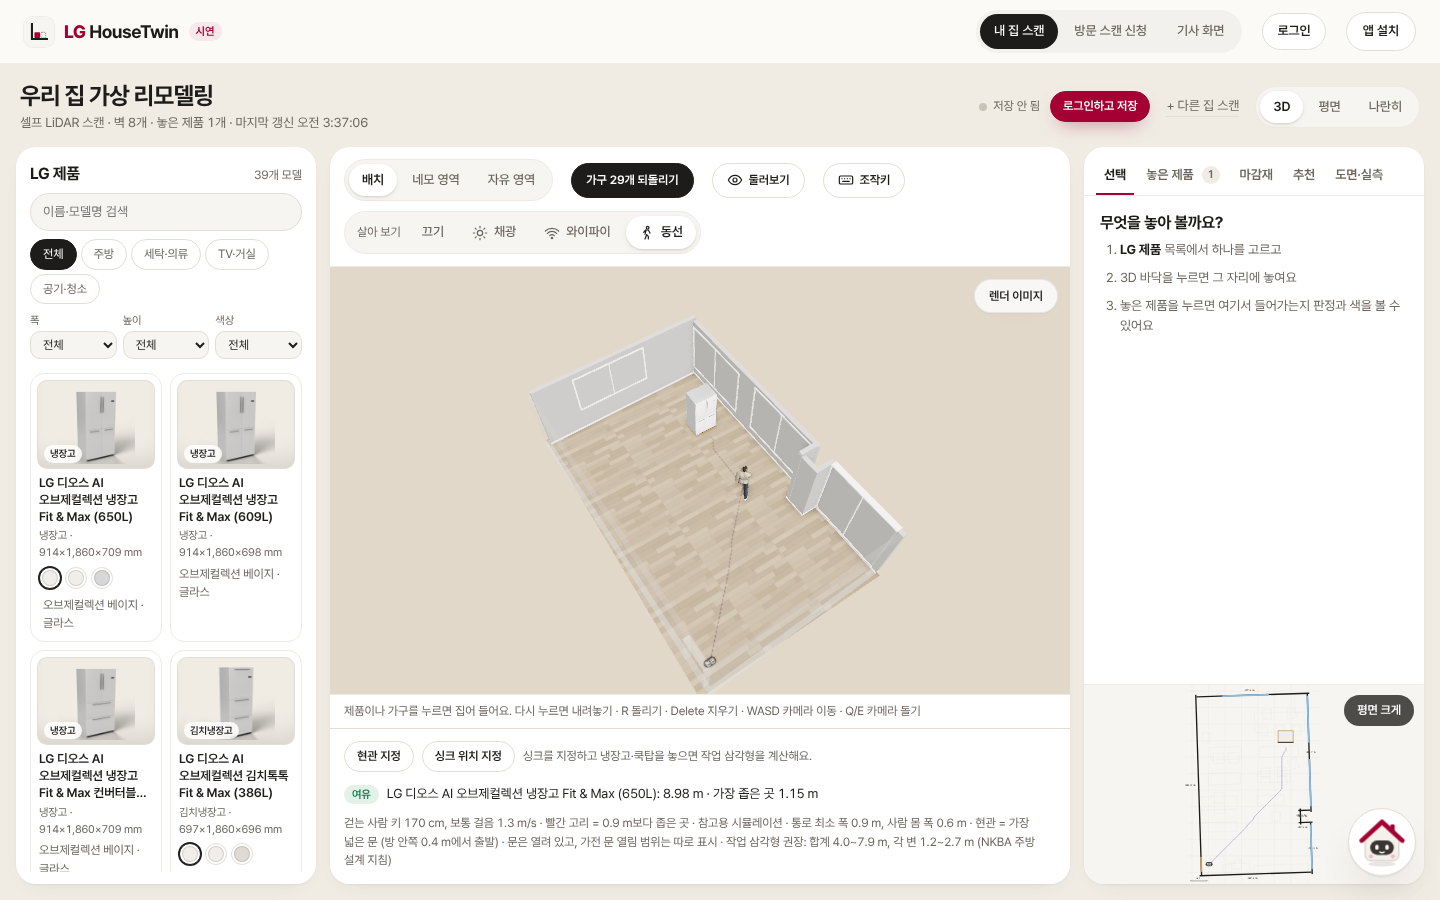
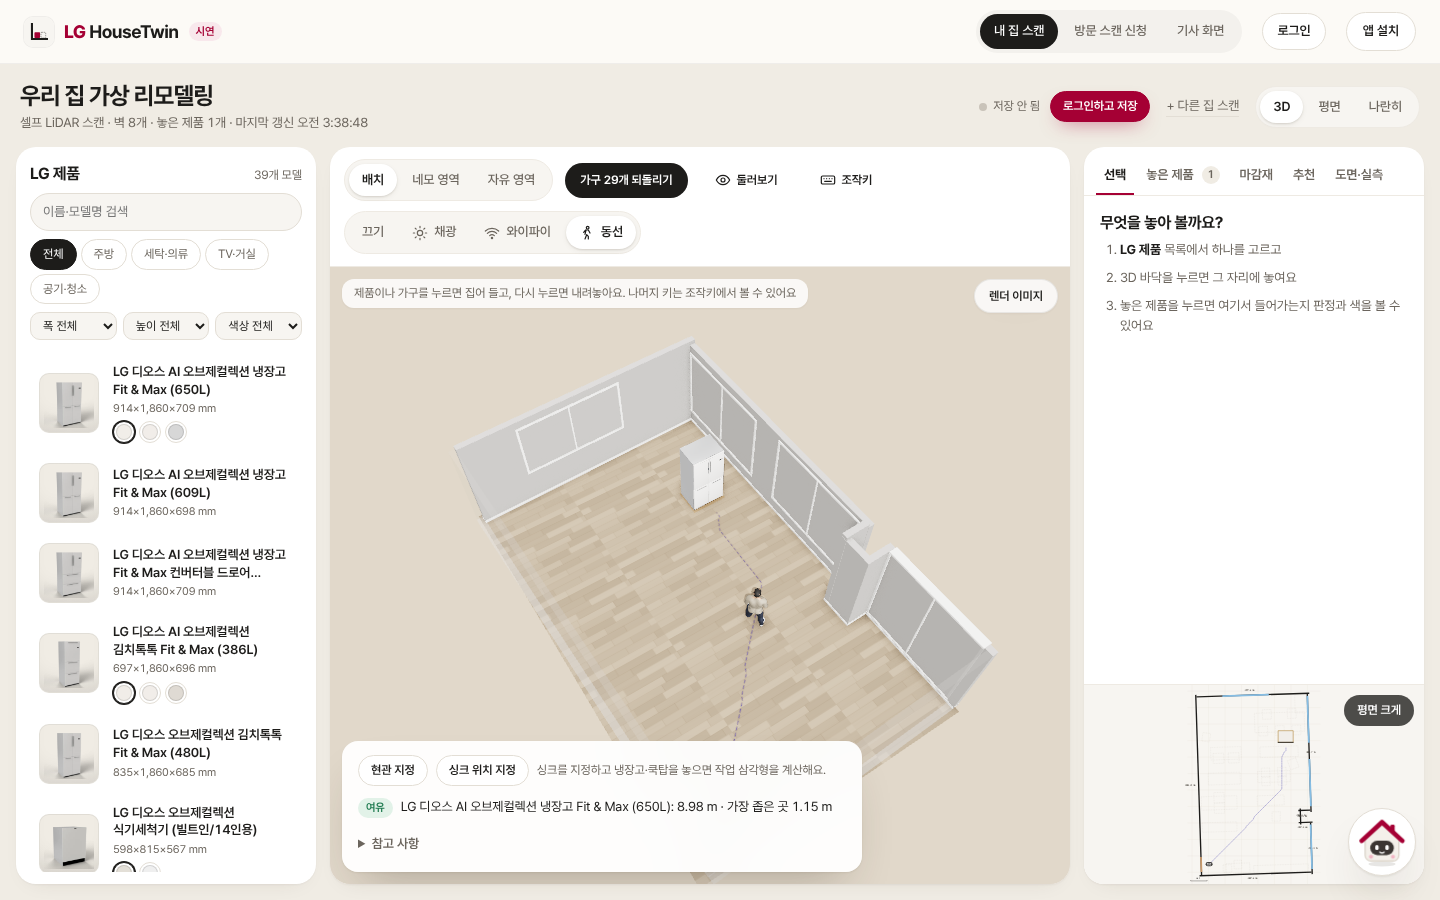
main의 화면 단순화와 합치고 점검 화면·인계 메모 추가

diff --git a/docs/handoff/wifi-router-flow-walker-3d.md b/docs/handoff/wifi-router-flow-walker-3d.md
@@ -1,0 +1,22 @@
+# 인계 메모: 와이파이 공유기 3D · 동선 걷는 사람 3D (2026-11-20)
+
+브랜치: `claude/project-thread-agmmrq` (main 최신을 합쳐 둠)
+
+## 끝난 것
+- 공유기 모델 `apps/web/models/devices/router.glb` (`build_router.py`, TP-Link Archer AX55 공개 치수 261.1×134.5×41 mm)
+- 사람 모델 `apps/web/models/people/walker.glb` (`build_person.py`, MakeHuman CC0 몸, 170 cm, walk·idle 동작)
+- 3D에서 공유기 눌러 집기 → 옮기기·R 돌리기 → 내려놓으면 저장하고 와이파이 다시 계산 (`viewer.js` setRouter, `remodel.js` savePose)
+- 공유기 방향 `yaw_rad` 저장 (`core/service.py` set_router, `api/main.py` RouterIn). 자리만 옮기면 방향 유지
+- 동선: 사람이 현관에서 제품 앞까지 1.3 m/s로 걷기 (`js/walker.js` 계산, `viewer.js` setWalkers)
+- 와이파이·동선 화면의 그림 문자 표시 제거 (평면도 공유기는 실제 크기 기호, 현관·싱크는 글자 표시)
+- 출처 `docs/model-sources.md`, MakeHuman 받기 `scripts/fetch_makehuman.sh`
+- 검증: `uv run pytest` 386 통과, `node tests/e2e/sim_3d.js` 11/11 통과, 화면 `docs/verification/`
+
+## 남은 것 (하면 좋은 것)
+- 사람 모델 다듬기: 셔츠 목선이 살짝 들쭉날쭉, 얼굴에 질감(눈썹·입술 색)이 없음, 걷기는 직접 만든 키프레임이라 모션 캡처만큼 자연스럽지는 않음
+- 공유기를 가구 위(선반·책상 높이)에 올려놓기는 아직 없음. 지금은 바닥에 놓임
+- `tests/e2e/demo_flow.js`는 화면 단순화 이후 벽지 견본 단계(174행)에서 멈춤. 이번 변경과 무관, 따로 손봐야 함
+- MCP 도구 `set_router`는 방향 인자를 받지 않음 (필요하면 추가)
+
+## 다시 만들기
+`docs/model-sources.md` 맨 아래 명령 참고 (pip `bpy` 환경: `python3.13 -m venv`, `pip install bpy numpy`).
